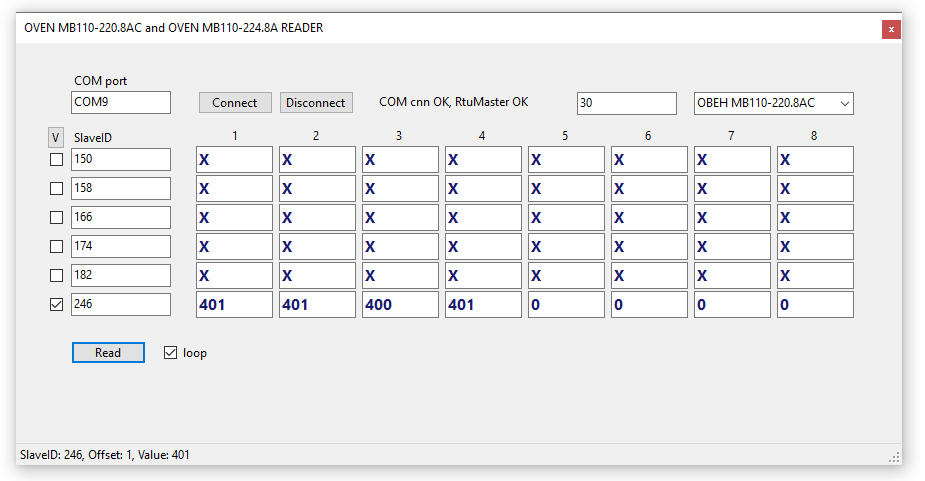
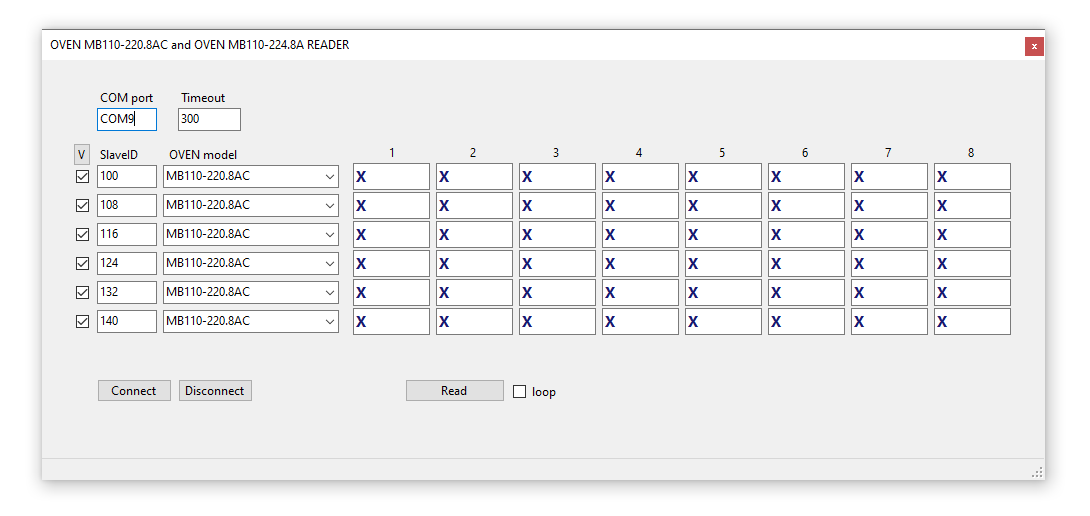
Async and UI updates

diff --git a/README.md b/README.md
@@ -5,14 +5,14 @@ Uses Modbus RTU master via Serial Port. Uses ReadHoldingRegisters() function.
 ![](form.png)
 
 1. You enter the COM port
-2. Set timeout, 100 by default (need to reconnect to apply changes)
-3. Press Connect
-4. Select OVEN model
-5. Set Slave ID
-6. Checkbox on the left means this device will be scanned
-7. Press Read
-8. If the device can't be connected, the checkbox will be unchecked
-9. For continuous monitoring, check "Loop" checkbox
+2. Set timeout (need to reconnect to apply changes)
+3. Select OVEN Slave IDs and models
+4. Checkbox on the left means this device will be scanned
+5. Press Read
+6. If the device can't be connected, the checkbox will uncheck itself
+7. For continuous monitoring, check "Loop" checkbox
 
-This is a threaded application, UI may be partially blocked during reading.
 Application requires NuGets: NModbus, NModbus.Serial, System.IO.Ports.
+Settings are saved in the application folder in the files _AppSettings.json, _OvenModels.json, _OvenSettings.json - should be in the same folder as the executable.
+File _OvenModels.json allows adding new models of OVEN devices. File _OvenSettings.json contains the settings of the devices. File _AppSettings.json contains the settings of the application.
+
